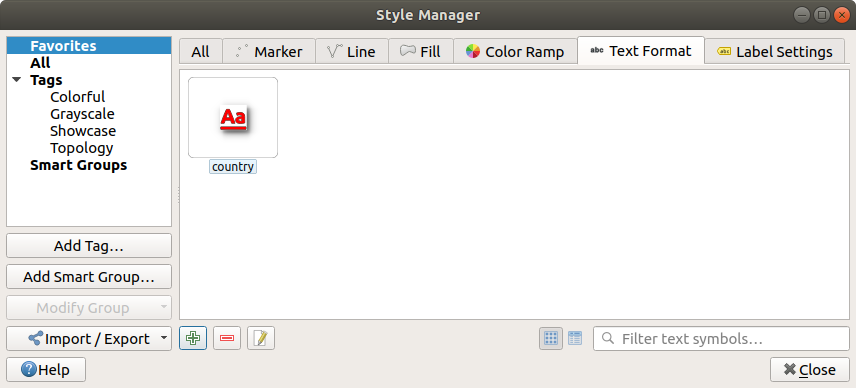
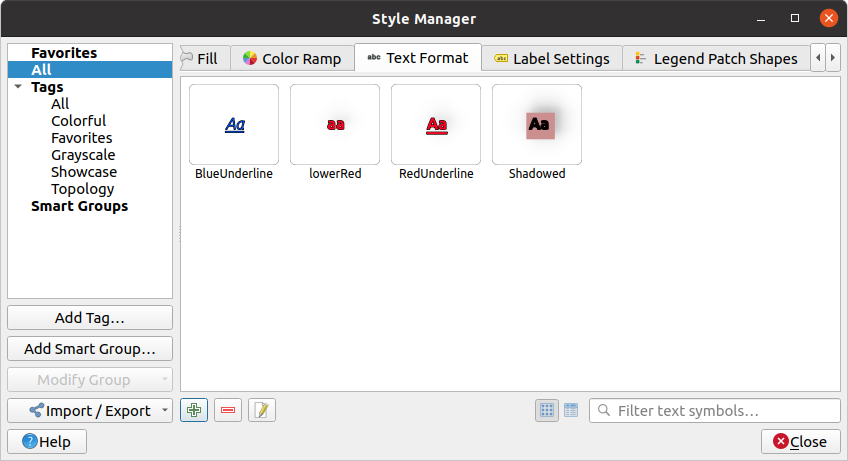
Clarify distinction between text format and label settings
Mention creation of both item types
Make the text generic enough for the item types

diff --git a/docs/user_manual/style_library/label_settings.rst b/docs/user_manual/style_library/label_settings.rst
@@ -9,47 +9,70 @@
    .. contents::
       :local:
 
-Labels are textual information you can display on vector features. They add
-details you could not necessarily represent using symbols.
+Labels are textual information you can display on vector features or maps.
+They add details you could not necessarily represent using symbols.
+Two types of text-related items are available in QGIS:
 
-The :guilabel:`Style Manager` dialog allows you to create a set of labels or
-text formats (ie the appearance of the text, including font, size, colors,
-shadow, background...). Each of these items could later be applied to layers in
-the |labeling| :guilabel:`Labels` tab of the vector :guilabel:`Layer Properties`
-dialog or :guilabel:`Layer Styling` panel or using the |labeling| :sup:`Layer
-Labeling Options` button of the **Labels toolbar**. You can also directly
-configure them in the abovementioned dialogs.
+* :guilabel:`Text Format`: defines the appearance of the text, including
+  :ref:`font, size, colors <labels_text>`, :ref:`shadow <labels_shadow>`,
+  :ref:`background <labels_background>`, :ref:`buffer <labels_buffer>`, ...
 
-.. It could be nice to briefly expose the "label settings" tab of the style
- manager, with some sample of label settings in it.
+  They can be used to render texts over the map (layout/map title,
+  decorations, scale bar, ...), usually through the :ref:`font <font_selector>`
+  widget.
 
-The :guilabel:`Label Settings` dialog allows you to configure smart labeling
-for vector layers. Setting a label includes configuring the :ref:`text format
-<text_format>`, and how the label relates with the features or other labels
-(through :ref:`placement <labels_placement>`, :ref:`rendering <labels_rendering>`
-and :ref:`callout <labels_callouts>`).
+  To create a :guilabel:`Text Format` item:
+
+  #. Open the |styleManager| :guilabel:`Style Manager` dialog
+  #. Activate the :guilabel:`Text format` tab
+
+     .. _figure_textformats:
+
+     .. figure:: img/stylemanager_textformat.png
+        :align: center
+
+        Text formats in Style Manager dialog
+
+  #. Press the |signPlus| :sup:`Add item` button. The :guilabel:`Text Format`
+     dialog opens for :ref:`configuration <text_format>`.
+     As usual, these properties are :ref:`data-definable <data_defined>`.
+
+* :guilabel:`Label Settings`: extend the text format settings with properties
+  related to the location or the interaction with other texts or features
+  (:ref:`callouts <labels_callouts>`, :ref:`placement <labels_placement>`,
+  :ref:`overlay, scale visibility <labels_rendering>`, mask ...).
+
+  They are used to configure smart labelling for vector layers through the
+  |labeling| :guilabel:`Labels` tab of the vector :guilabel:`Layer Properties`
+  dialog or :guilabel:`Layer Styling` panel or using the |labeling| :sup:`Layer
+  Labeling Options` button of the :ref:`Label toolbar <label_toolbar>`.
+
+  To create a :guilabel:`Label Settings` item:
+
+  #. Open the |styleManager| :guilabel:`Style Manager` dialog
+  #. Activate the :guilabel:`Label Settings` tab
+
+     .. _figure_label_settings:
+
+     .. figure:: img/stylemanager_labelsettings.png
+        :align: center
+
+        Label Settings in Style Manager dialog
+
+  #. Press the |signPlus| :sup:`Add item` menu and select the entry corresponding
+     to the geometry type of the features you want to label.
+
+  The :guilabel:`Label Settings` dialog opens with the following properties.
+  As usual, these properties are :ref:`data-definable <data_defined>`.
+
 
 .. _text_format:
 
 Formatting the label text
 =========================
 
-To create text formats, you can:
-
-#. Open the |styleManager| :guilabel:`Style Manager` dialog
-#. Activate the :guilabel:`Text format` tab
-
-   .. _figure_textformats:
-
-   .. figure:: img/stylemanager_textformat.png
-      :align: center
-
-      Text formats in Style Manager dialog
-
-#. Press the |signPlus| :sup:`Add item` button. The :guilabel:`Text Settings`
-   dialog opens with the following properties. As usual, these properties
-   are :ref:`data-definable <data_defined>`.
-
+Most of the following properties are common to :guilabel:`Text Format`
+and :guilabel:`Label Settings` items.
 
 .. _labels_text:
 
@@ -72,17 +95,19 @@ In the |text| :guilabel:`Text` tab, you can set:
 * the :guilabel:`Color`
 * and the :guilabel:`Opacity`.
 
-At the bottom, a text formats list widget shows a filterable list of text
-formats stored within your :ref:`style manager database <vector_style_manager>`.
-This allows you to easily set text formats to match styles saved in the local
-style database, and also to add a new text format to the style database based on
-the current settings. Press the :guilabel:`Save format...` button to store the
-current text format in the :guilabel:`Style Manager`, providing a name and tag(s).
 
-Likewise, a label settings list widget is shown when configuring labels, allowing
-you to pick from the |styleManager| :sup:`Style Manager` widget or to add new
-styles to it.
 
+At the bottom of the tab, a widget shows a filterable list of compatible items
+stored in your :ref:`style manager database <vector_style_manager>`.
+This allows you to easily configure the current text format or label setting
+based on an existing one, and also save a new item to the style database:
+Press the :guilabel:`Save format...` or :guilabel:`Save settings...` button
+and provide a name and tag(s).
+
+.. note:: When configuring a :guilabel:`Label Settings` item, text format items
+ are also available in this widget. Select one to quickly overwrite the current
+ :ref:`textual properties <text_format>` of the label.
+ Likewise, you can create/overwrite a text format from there.
 
 .. _labels_formatting:
 
